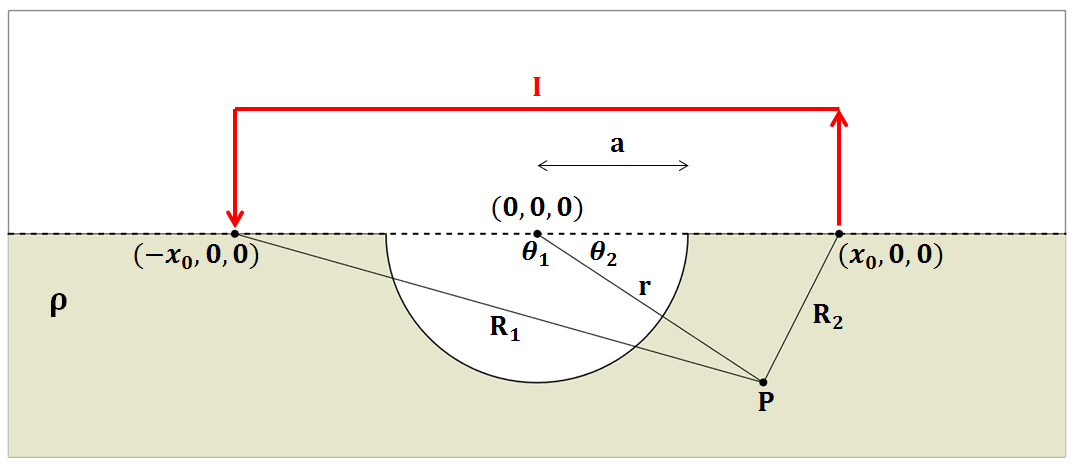
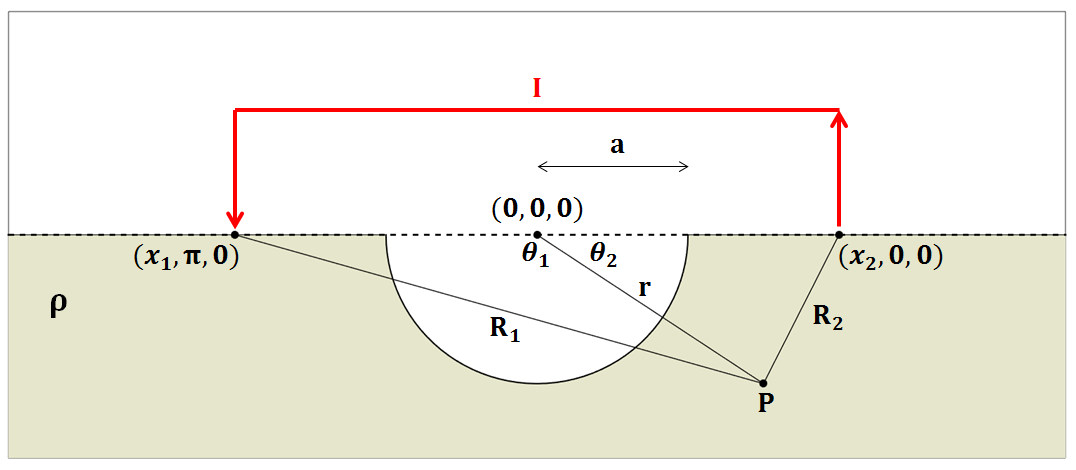
Updates to the SphericalDepression page.

diff --git a/content/maxwell2_steady_state/SphericalDepression.rst b/content/maxwell2_steady_state/SphericalDepression.rst
@@ -5,18 +5,22 @@ Effects of Topography: A Hemispherical Depression
 Introduction
 ============
 
-| For this derivation, we will examine the effects of negative
+For this derivation, we will examine the effects of negative
 topography by considering a hemispherical depression in the Earth’s
 surface. This will be done in 4 steps:
-| 1) We will begin by presenting a solution for the electric scalar
+
+1. We will begin by presenting a solution for the electric scalar
 potential, within a wholespace defined of resistivity :math:`\rho`, due
 to a point current source. This solution will then be re-expressed in
 the coordinate system which characterizes our final problem.
-| 2) The solution for a conducting sphere within a wholespace is then
+
+2. The solution for a conducting sphere within a wholespace is then
 presented.
-| 3) By exploiting the symmetry of the previous solution, we will obtain
-the solution for a hemispherical conductive body within a halfspace. Our
-final solution is obtained by setting the resistivity of the
+
+3. By exploiting the symmetry of the previous solution, we will obtain
+the solution for a hemispherical conductive body within a halfspace. 
+
+4. Our final solution is then obtained by setting the resistivity of the
 hemispherical depression to infinity.
 
 Electric Potential from a Current Source within a Wholespace
@@ -24,7 +28,7 @@ Electric Potential from a Current Source within a Wholespace
 
 Let us consider the case where an electrical current :math:`I` is being
 injected into a wholespace with resistivity :math:`\rho`, at location
-\\( (x,y,z) = (x_0,0,0) \\). Assuming the medium is lossless,
+(:math:`x,y,z`) = (:math:`x_0,0,0`). Assuming the medium is lossless,
 this results in a current density :math:`J` which flows radially
 outwards from the source, with magnitude:
 
@@ -33,7 +37,7 @@ outwards from the source, with magnitude:
 |SphericalDepression_Wholespace|
 
 where :math:`R` is the distance from the source to a point of measure
-:math:`P`, and :math:`4 \pi R^2` is the area of a ball centered at the
+:math:`P`, and :math:`4\pi R^2` is the area of a ball centered at the
 source. Because our problem is electrostatic,
 :math:`\vec E = - \nabla \psi` according to Faraday’s law. The scalar
 electric potential :math:`\psi` can be obtained by integrating the
@@ -44,8 +48,9 @@ law (:math:`\vec E = \rho \vec J`) into the path integral:
 
 For reasons which will becomes apparent in the next section, we would
 like to re-express :math:`\psi` in terms of a radial coordinate system
-(:math:`r,\theta,\phi`), centered at (:math:`x,y,z`) = (0,0,0). By using
-the cosine law:
+(:math:`r,\theta,\phi`), centered at (:math:`x,y,z`) = (0,0,0). Because
+the points which represent the problem geometry do not necessarily form
+a right-triangle, :math:`R` must be expressed using the cosine law:
 
 .. math:: R = \sqrt{x_0^2 + r^2 - 2rx_0 cos \theta \;}
 
@@ -57,8 +62,9 @@ of spherical harmonic modes using the binomial theorem:
    \begin{aligned}
    \frac{1}{R} &= \frac{1}{x_0} \Bigg [ 1 + \Bigg ( \frac{r}{x_0} \Bigg )^2 - 2 \frac{r}{x_0} cos \theta \Bigg ]^{-1/2} \\
    &= \frac{1}{x_0} \Bigg [ 1 + \frac{r}{x_0}cos \theta + \Bigg ( \frac{r}{x_0} \Bigg )^2 \Bigg ( \frac{3}{2} cos^2 \theta - \frac{1}{2} \Bigg ) + \; \dotsb \; \Bigg ] \\
+   .. \label{eq:RSol1}
    &= \frac{1}{x_0} \sum_{n=0}^\infty \Bigg ( \frac{r}{x_0} \Bigg )^n P_n \big (cos \theta \big )\end{aligned}
-   \label{eq:RSol1}
+   :label:eq:RSol1
 
 where :math:`P_n \big (cos \theta \big )` is the Legendre polynomial of
 order :math:`n`. Because Legendre polynomials have magnitudes less than
@@ -71,8 +77,8 @@ similar approach for :math:`r < x_0` can be expressed as follows:
    \begin{aligned}
    \frac{1}{R} &= \frac{1}{r} \Bigg [ 1 + \Bigg ( \frac{x_0}{r} \Bigg )^2 - 2 \frac{x_0}{r} cos \theta \Bigg ]^{-1/2} \\
    &= \frac{1}{r} \Bigg [ 1 + \frac{x_0}{r}cos \theta + \Bigg ( \frac{x_0}{r} \Bigg )^2 \Bigg ( \frac{3}{2} cos^2 \theta - \frac{1}{2} \Bigg ) + \; \dotsb \; \Bigg ] \\
-   &= \frac{1}{r} \sum_{n=0}^\infty \Bigg ( \frac{x_0}{r} \Bigg )^n P_n \big ( cos \theta \big )\end{aligned}
    \label{eq:RSol2}
+   &= \frac{1}{r} \sum_{n=0}^\infty \Bigg ( \frac{x_0}{r} \Bigg )^n P_n \big ( cos \theta \big )\end{aligned}
 
 Similar to Eq. :eq:`eq:RSol1`, since :math:`x_0<r`, the infinite series in
 Eq. ([eq:RSol2]) is also boundary and conveges as
@@ -157,7 +163,7 @@ and
 Therefore, the electric scalar potential observed outside the sphere is
 equal to:
 
-.. math:: \psi = \frac{I\rho}{4 \pi} \Bigg [ \frac{1}{R} +  \sum_{n=0}^\infty \frac{a^{2n+1}}{\big (x_0 \, r \big )^{n+1}} \Bigg ( \frac{n \big ( \rho_1 - \rho \big )}{n\rho + \big (n+1 \big )\rho_1} \Bigg ) P_n \big ( cos \theta \big ) \Bigg ]
+.. math:: \psi (r, \theta ,\phi) = \frac{I\rho}{4 \pi} \Bigg [ \frac{1}{R} +  \sum_{n=0}^\infty \frac{a^{2n+1}}{\big (x_0 \, r \big )^{n+1}} \Bigg ( \frac{n \big ( \rho_1 - \rho \big )}{n\rho + \big (n+1 \big )\rho_1} \Bigg ) P_n \big ( cos \theta \big ) \Bigg ]
 
 Eq. [] can be split into two terms: the potential for a wholespace from
 Eq. [], and an anomalous potential which results from the exstence of a
@@ -170,7 +176,7 @@ Electric Potential Across a Hemispherical Depression in a Conducting Half-Space
 
 Here, we consider the electric scalar potential at :math:`P`, which
 results from the injection of current near a hemispherical depression of
-radius :math:`a`, centered at (:math:`0,0,0`). According to Telfor, so
+radius :math:`a`, centered at (:math:`0,0,0`). According to Telford, so
 long as current is being injected along the axis of symmetry shown in
 Fig. [], and :math:`|x_0|>a`, we can obtain our solution from Eq. [] by
 replacing :math:`4\pi` with :math:`2\pi`; replacement of the constant is
@@ -178,23 +184,31 @@ done because all current flows entirely through the ground. By setting
 :math:`\rho_1 = \infty`, the potential created by the injection of
 current :math:`I` at (:math:`x_0,0,0`) is:
 
-.. math:: \psi = \frac{I\rho}{2 \pi} \Bigg [ \frac{1}{R} + \sum_{n=0}^\infty \frac{a^{2n+1}}{\big (x_0 \, r \big )^{n+1}} \Bigg ( \frac{n}{n+1} \Bigg ) P_n \big ( cos \theta \big ) \Bigg ]
+.. math:: \psi (r, \theta, \phi) = \frac{I\rho}{2 \pi} \Bigg [ \frac{1}{R} + \sum_{n=0}^\infty \frac{a^{2n+1}}{\big (x_0 \, r \big )^{n+1}} \Bigg ( \frac{n}{n+1} \Bigg ) P_n \big ( cos \theta \big ) \Bigg ]
 
 |SphericalDepression_PoleDipole|
 
-Using Eq. [], we can solve the problem in Fig. [], where a current of
-:math:`I` is being injected at :math:`(-x_0,0,0`) and a current of
-:math:`-I` is being injected at (:math:`x_0,0,0`).
+Recall that at this point, :math:`x_0` is the radial distance from the
+origin, within a spherical coordinate system relative to the axis of
+symmetry. Using Eq. [] however, we can solve the problem in Fig. [],
+where a current of :math:`I` is being injected at :math:`(x_1,\pi,0`)
+and a current of :math:`-I` is being injected at (:math:`x_2,0,0`):
 
-.. math:: \psi = \psi_{+} + \psi_{\, -} = \frac{\rho I}{2 \pi} \Bigg [ \frac{1}{R_1} - \frac{1}{R_2} + \sum_{n=0}^\infty \frac{a^{2n+1}}{\big (x_0 \, r \big )^{n+1}} \Bigg ( \frac{n}{n+1} \Bigg ) \Big [ P_n \big ( cos \theta_1 \big ) - P_n \big ( cos \theta_2 \big ) \Big ] \Bigg ]
+.. math:: \psi (r , \theta, \phi)= \psi_{+} + \psi_{\, -} = \frac{\rho I}{2 \pi} \Bigg [ \frac{1}{R_1} - \frac{1}{R_2} + \sum_{n=0}^\infty \Bigg ( \frac{n}{n+1} \Bigg ) \Bigg ( \frac{a^{2n+1}  P_n \big ( cos \theta_1 \big ) }{\big (x_1 \, r \big )^{n+1}} -  \frac{a^{2n+1}  P_n \big ( cos \theta_2 \big ) }{\big (x_2 \, r \big )^{n+1}} \Bigg ) \Bigg ]
 
 where, by the cosine law:
 
-.. math:: R_1 = \sqrt{x_0^2 + r^2 - 2rx_0 cos \theta_1 \;}
+.. math:: R_1 = \sqrt{x_1^2 + r^2 - 2r x_1 cos \theta_1 \;}
 
 and
 
-.. math:: R_2 = \sqrt{x_0^2 + r^2 - 2rx_0 cos \theta_2 \;}
+.. math:: R_2 = \sqrt{x_2^2 + r^2 - 2rx_2 cos \theta_2 \;}
+
+It is important to note that Eq. [] is only possible if current is being
+injected along the axis of symmetry. In addition, :math:`\theta` refers
+an azimuthal angle relative the axis of symmetry, whereas
+:math:`\theta_1` and :math:`\theta_2` are strictly angles related to the
+trigonometry of the problem.
 
 |SphericalDepression_DipoleDipole|
 
